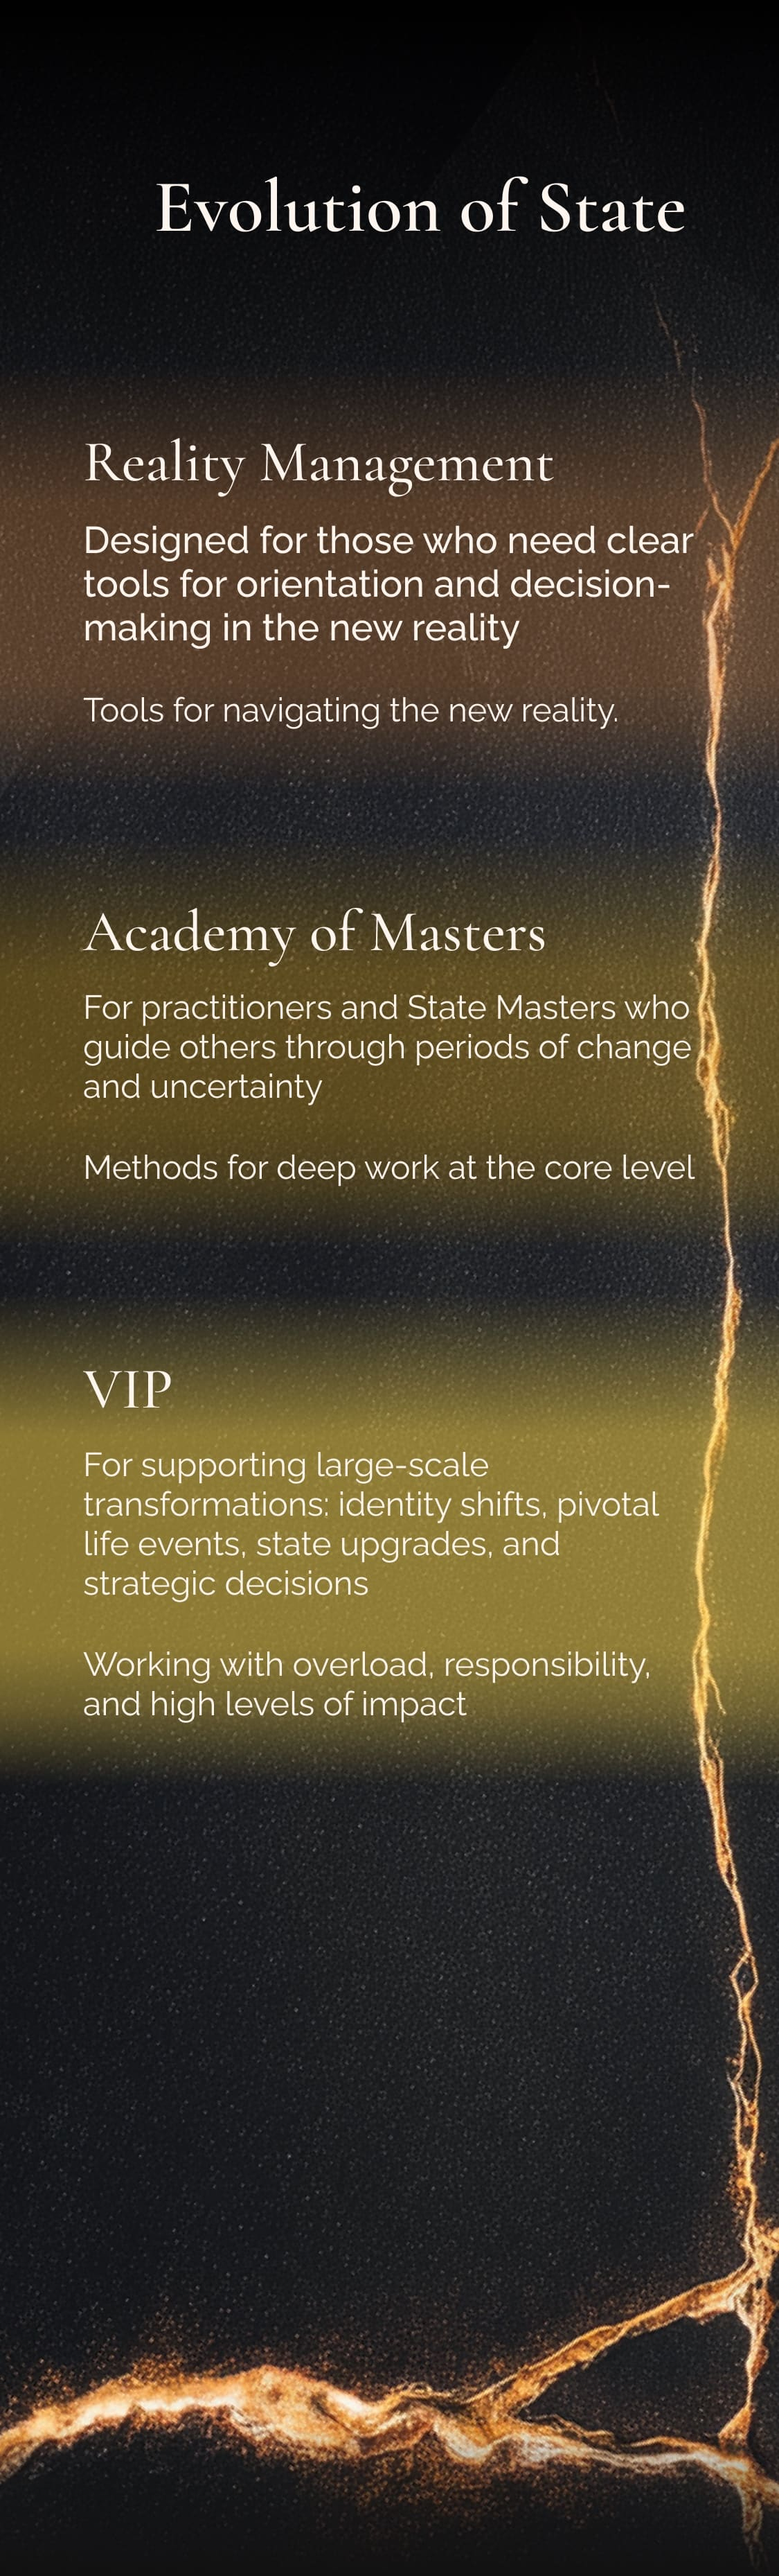
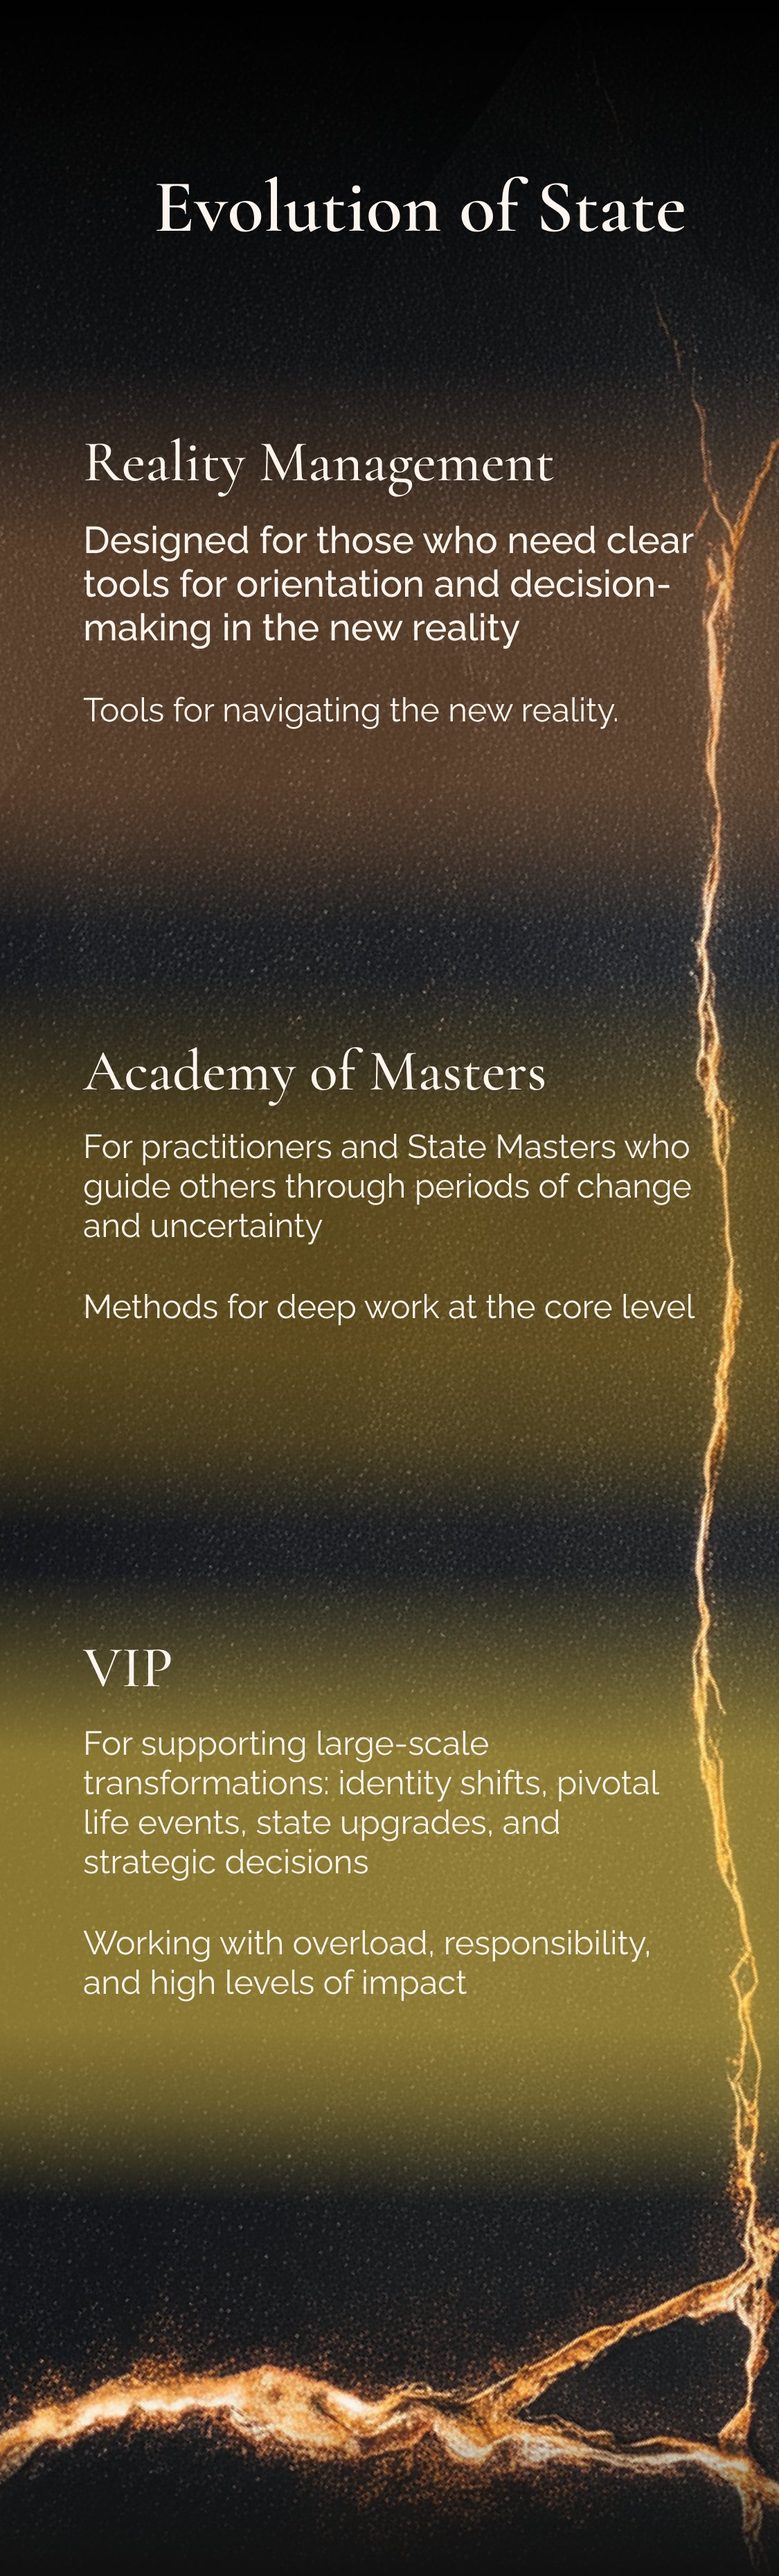
S11 mobile: clean per-language bg + overlay buttons (no overlap)
Fixes the mobile S11 bug where "Перейти" buttons were overlapping
card description text (and stacking double at the bottom card),
because the old s11.jpg had baked-in pill backgrounds that the CSS
overlay positions no longer matched.

- Swap mobile s11 bgs (ru/en/ua) to clean versions without baked pills
- Use lang-specific button PNGs from /buttons/{lang}/mobile/s11.png
- Reposition .s11-btn-{1,2,3} per language (RU/UA/EN paragraph
  lengths differ → buttons anchor to last line of each card)
- Add .s11-lang-{lang} class to scope per-language overrides

diff --git a/src/components/ProgramsSection.tsx b/src/components/ProgramsSection.tsx
@@ -2,13 +2,15 @@
 import Image from "next/image";
 import { useTranslation } from '@/components/LanguageProvider';
 import SeoText from '@/components/SeoText';
-import { bgDesktop, bgMobile, btnDesktop } from '@/lib/imagePaths';
+import { bgDesktop, bgMobile, btnDesktop, btnMobile } from '@/lib/imagePaths';
+
+const CTA_HREF = 'https://t.me/medvedieva_anna';
 
 export default function ProgramsSection() {
   const { lang } = useTranslation();
 
   return (
-    <section id="s11" className="section">
+    <section id="s11" className={`section s11-lang-${lang}`}>
       <SeoText section="s11" />
       <div className="s10-bg desktop-only">
         <Image src={bgDesktop(11, lang)} alt="" fill style={{ objectFit: "cover", objectPosition: "center center" }} quality={90} />
@@ -16,14 +18,17 @@ export default function ProgramsSection() {
       <div className="s10-bg mobile-only">
         <Image src={bgMobile(11, lang)} alt="" fill style={{ objectFit: "cover", objectPosition: "center top" }} quality={90} />
       </div>
-      <a href="https://t.me/medvedieva_anna" target="_blank" rel="noopener noreferrer" className="s11-btn-overlay s11-btn-1">
-        <img src={btnDesktop(11, lang)} alt="" draggable={false} />
+      <a href={CTA_HREF} target="_blank" rel="noopener noreferrer" className="s11-btn-overlay s11-btn-1" aria-label="Reality Management">
+        <img className="desktop-only" src={btnDesktop(11, lang)} alt="" draggable={false} />
+        <img className="mobile-only"  src={btnMobile(11, lang)}  alt="" draggable={false} />
       </a>
-      <a href="https://t.me/medvedieva_anna" target="_blank" rel="noopener noreferrer" className="s11-btn-overlay s11-btn-2">
-        <img src={btnDesktop(11, lang)} alt="" draggable={false} />
+      <a href={CTA_HREF} target="_blank" rel="noopener noreferrer" className="s11-btn-overlay s11-btn-2" aria-label="Masters Academy">
+        <img className="desktop-only" src={btnDesktop(11, lang)} alt="" draggable={false} />
+        <img className="mobile-only"  src={btnMobile(11, lang)}  alt="" draggable={false} />
       </a>
-      <a href="https://t.me/medvedieva_anna" target="_blank" rel="noopener noreferrer" className="s11-btn-overlay s11-btn-3">
-        <img src={btnDesktop(11, lang)} alt="" draggable={false} />
+      <a href={CTA_HREF} target="_blank" rel="noopener noreferrer" className="s11-btn-overlay s11-btn-3" aria-label="VIP">
+        <img className="desktop-only" src={btnDesktop(11, lang)} alt="" draggable={false} />
+        <img className="mobile-only"  src={btnMobile(11, lang)}  alt="" draggable={false} />
       </a>
     </section>
   );

diff --git a/src/app/globals.css b/src/app/globals.css
@@ -1013,22 +1013,43 @@ img.desktop-only { display: block !important; }
   .s7-btn-about { bottom: 10.5%; }
   .s7-btn-consult { bottom: 3.8%; }
 
-  /* S11 mobile | ref: 11.png (375×1239) — stacked full-width.
-     Card text in the JPG ends at 30.6% / 51.9% / 75.1% from top;
-     buttons sit in the dark gap just below each card. */
-  /* Button positions tuned against `референс перейти блок.png` (1125×3717).
-     The reference bakes visible rounded "Перейти" pills into the art at
-     approximately 26.6% / 54.9% / 87.3% from top. Hit zones sit centered
-     on those pills with a 6% height for a generous tap target. */
+  /* S11 mobile | clean per-language bg without baked "Перейти" pills.
+     Three button PNG overlays from /images/buttons/{lang}/mobile/s11.png
+     are placed at exactly 295×47px on top of each card. Horizontally
+     centered via negative margin (avoids the `transform` slot, which is
+     owned by the scroll-reveal `btnReveal` animation). Vertical bottom %
+     anchors each on its card. */
   .s11-btn-overlay {
-    left: 6.7% !important;
-    width: 86.7% !important;
-    height: 6%;
+    left: 50% !important;
+    margin-left: -147.5px !important;
+    width: 295px !important;
+    height: 47px !important;
     aspect-ratio: auto !important;
+    padding: 0;
+    border: none;
+    background: transparent;
+    border-radius: 10px;
+    overflow: hidden;
+    opacity: 1;
+    animation: none !important;
   }
-  .s11-btn-1 { bottom: 70%; }
-  .s11-btn-2 { bottom: 42%; }
-  .s11-btn-3 { bottom: 10%; }
+  .s11-btn-overlay::before { display: none !important; }
+  .s11-btn-overlay > img.mobile-only {
+    width: 100% !important;
+    height: 100% !important;
+    object-fit: contain !important;
+    display: block;
+  }
+  /* Button positions — each button sits ~20px below the last text line of
+     its card. Per-language because RU/UA/EN paragraph lengths differ. */
+  .s11-btn-1 { bottom: 63.87%; }
+  .s11-btn-2 { bottom: 37.48%; }
+  .s11-btn-3 { bottom: 9.74%; }
+  .s11-lang-ua .s11-btn-2 { bottom: 39.04% !important; }
+  .s11-lang-ua .s11-btn-3 { bottom: 11.30% !important; }
+  .s11-lang-en .s11-btn-1 { bottom: 66.21% !important; }
+  .s11-lang-en .s11-btn-2 { bottom: 43.29% !important; }
+  .s11-lang-en .s11-btn-3 { bottom: 16.84% !important; }
 
   /* S12 mobile | ref: подвал моб версия референс.png (1125×1800).
      Footer background IS the reference image — book card, social icons,

diff --git a/src/lib/imagePaths.ts b/src/lib/imagePaths.ts
@@ -2,7 +2,7 @@ import type { Lang } from './translations';
 
 // Bump this when replacing image assets to force browser cache refresh.
 // Format: YYYYMMDD-sequence
-const ASSET_VERSION = '20260423-s1-lang';
+const ASSET_VERSION = '20260425-s11-mobile-fix';
 const v = (p: string) => `${p}?v=${ASSET_VERSION}`;
 
 // Fallback order: use dedicated folder if exists, else fall back to RU (default).
